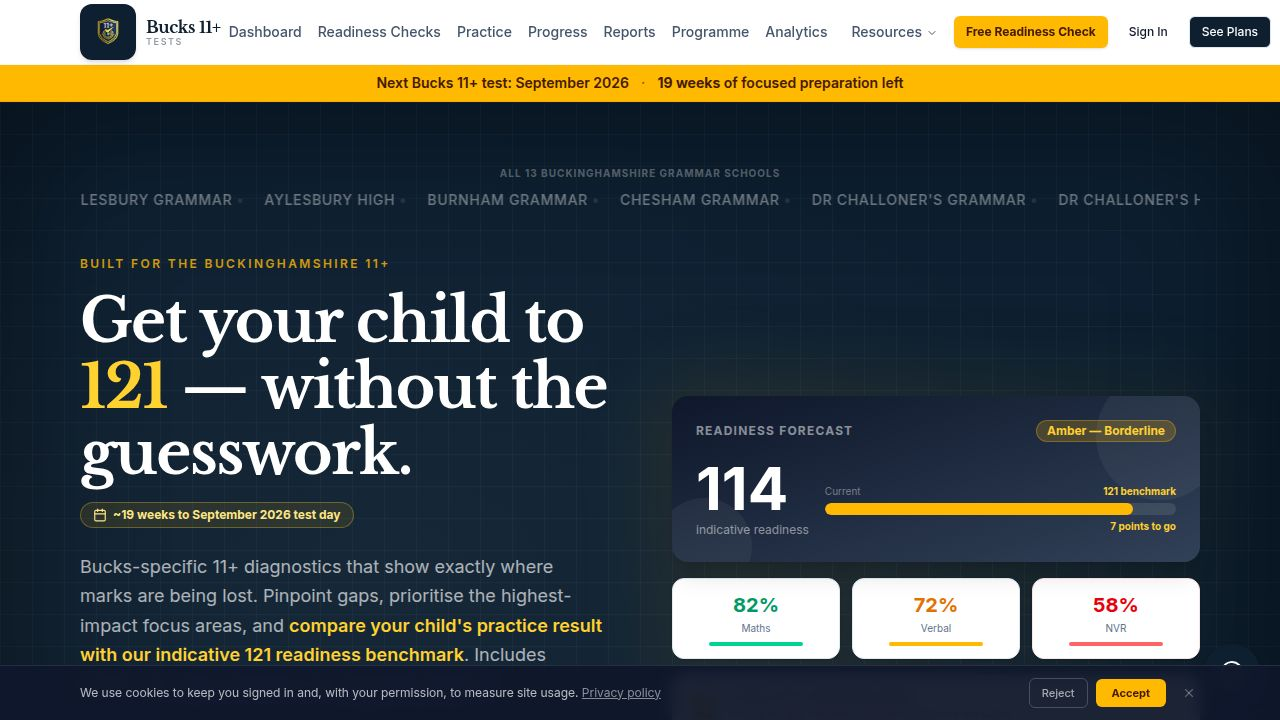
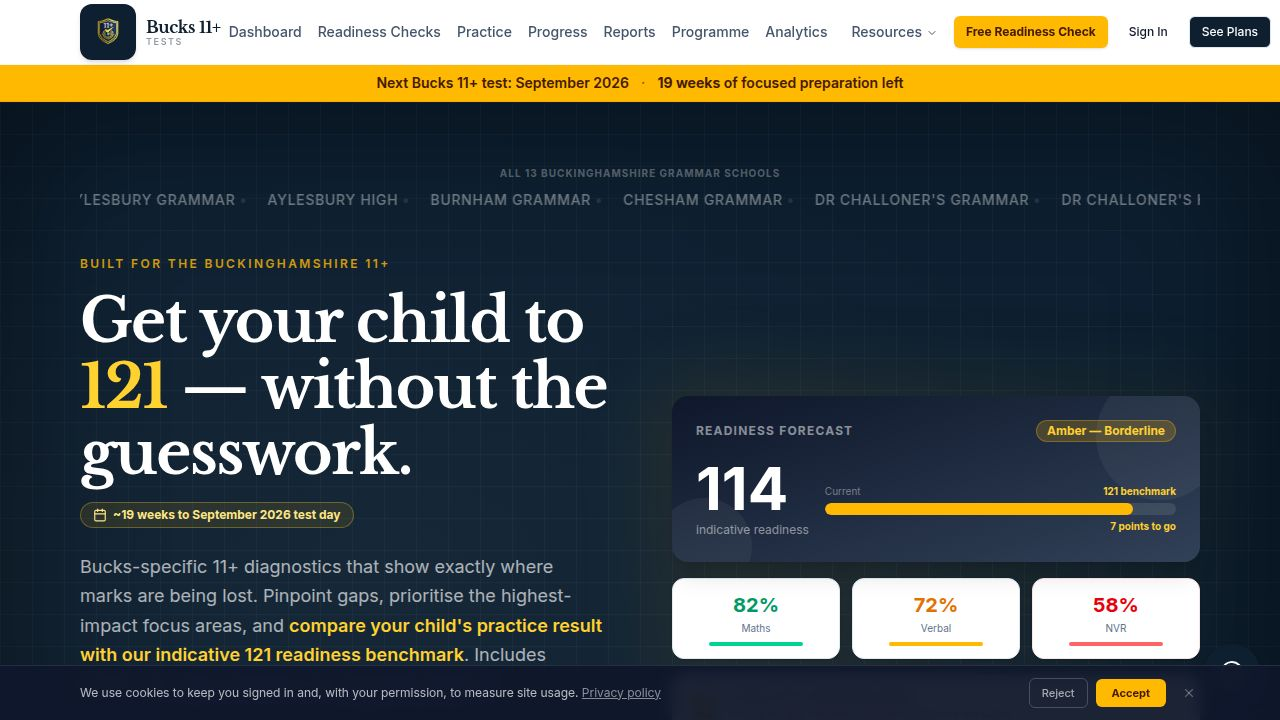
Add a preview of the free readiness check to the landing page
Introduce `FreeDiagnosticPreviewPanel` component and integrate it into the landing page, redesigning the diagnostic entry section to a two-column layout with the preview on the right.

Replit-Commit-Author: Agent
Replit-Commit-Session-Id: 90c3fe66-2ef5-4594-8845-019f938b8254
Replit-Commit-Checkpoint-Type: full_checkpoint
Replit-Commit-Event-Id: caa351bd-cbc0-4f8e-b4b7-3445084cc555
Replit-Commit-Screenshot-Url: https://storage.googleapis.com/screenshot-production-us-central1/b7437ecd-1abb-4e5d-b2c4-09e49d5b6ddc/90c3fe66-2ef5-4594-8845-019f938b8254/byGwE94
Replit-Helium-Checkpoint-Created: true

diff --git a/client/src/pages/Landing.tsx b/client/src/pages/Landing.tsx
@@ -401,6 +401,73 @@ function ProgrammePanel() {
   );
 }
 
+function FreeDiagnosticPreviewPanel() {
+  return (
+    <Link href="/free-diagnostic" className="block group cursor-pointer" data-testid="diagnostic-preview-panel">
+      <div className="rounded-2xl border border-amber-200/60 bg-white shadow-xl shadow-amber-100/40 overflow-hidden group-hover:shadow-amber-200/70 group-hover:border-amber-300/70 transition-all duration-200">
+        {/* Header */}
+        <div className="bg-primary px-4 py-3 flex items-center justify-between">
+          <div className="flex items-center gap-2">
+            <div className="w-6 h-6 rounded-lg bg-amber-400/20 border border-amber-400/30 flex items-center justify-center">
+              <span className="text-[9px] font-bold text-amber-300">11+</span>
+            </div>
+            <span className="text-[11px] font-semibold text-white/80 tracking-tight">Free Readiness Check</span>
+          </div>
+          <div className="flex items-center gap-3">
+            <span className="text-[10px] text-white/50">Q 1 of 12</span>
+            <span className="flex items-center gap-1 text-[11px] font-bold text-amber-300">
+              <Clock className="h-3 w-3" /> 07:45
+            </span>
+          </div>
+        </div>
+        {/* Progress bar */}
+        <div className="h-1 bg-slate-100">
+          <div className="h-1 bg-amber-400 w-[8%]" />
+        </div>
+        {/* Content */}
+        <div className="px-5 pt-4 pb-5">
+          <span className="inline-flex items-center gap-1.5 text-[10px] font-bold text-blue-700 bg-blue-50 border border-blue-100 px-2.5 py-1 rounded-full uppercase tracking-widest mb-4">
+            Verbal Reasoning
+          </span>
+          <p className="text-sm font-semibold text-primary mb-4 leading-snug">
+            Choose the word closest in meaning to <span className="text-amber-700 font-bold">ABUNDANT</span>
+          </p>
+          <div className="space-y-2">
+            {[
+              { letter: "A", word: "Scarce", selected: false },
+              { letter: "B", word: "Plentiful", selected: true },
+              { letter: "C", word: "Heavy", selected: false },
+              { letter: "D", word: "Ancient", selected: false },
+              { letter: "E", word: "Difficult", selected: false },
+            ].map((opt) => (
+              <div
+                key={opt.letter}
+                className={`flex items-center gap-3 px-3 py-2 rounded-xl border text-sm ${
+                  opt.selected
+                    ? "border-amber-400 bg-amber-50 text-amber-900 font-semibold"
+                    : "border-slate-200 bg-slate-50/50 text-slate-600"
+                }`}
+              >
+                <span className={`w-6 h-6 rounded-full flex items-center justify-center text-[11px] font-bold shrink-0 ${opt.selected ? "bg-amber-400 text-amber-950" : "bg-slate-200 text-slate-600"}`}>
+                  {opt.letter}
+                </span>
+                {opt.word}
+              </div>
+            ))}
+          </div>
+          <div className="mt-4 flex items-center justify-between">
+            <span className="text-[10px] text-slate-400">4 sections · instant results</span>
+            <div className="inline-flex items-center gap-1.5 bg-primary text-white text-[11px] font-bold px-4 py-2 rounded-xl group-hover:bg-primary/90 transition-all">
+              Next <ArrowRight className="h-3 w-3" />
+            </div>
+          </div>
+        </div>
+      </div>
+      <p className="text-[10px] text-slate-400 italic text-center mt-2">Click to start — 8 minutes, no account needed</p>
+    </Link>
+  );
+}
+
 /* ─── REMOVED: interactive question carousel ─── */
 // Removed in favour of platform showcase section
 type SampleQ = {
@@ -1003,6 +1070,7 @@ function ChildExperiencePanel() {
 
 export default function Landing() {
   const { user } = useAuth();
+  const [activeFeature, setActiveFeature] = useState(0);
 
   // Countdown to next Bucks 11+ test (Sept of relevant academic year)
   const today = new Date();
@@ -1138,120 +1206,88 @@ export default function Landing() {
             </p>
           </div>
 
-          <div className="space-y-20 md:space-y-28">
-            {/* Row 1: Readiness Diagnostics — copy left, panel right */}
-            <div className="grid lg:grid-cols-2 gap-10 lg:gap-16 items-center">
-              <div>
-                <span className="inline-flex items-center gap-1.5 text-[11px] font-bold text-amber-700 bg-amber-100 border border-amber-200 px-3 py-1 rounded-full uppercase tracking-widest mb-4">
-                  Free · Readiness Diagnostics
-                </span>
-                <h3 className="text-2xl md:text-3xl font-bold text-primary font-serif mb-3 leading-tight">
-                  Start with a real picture, not a guess
-                </h3>
-                <p className="text-slate-600 leading-relaxed mb-3">
-                  Take a 12-question timed check across all four sections — the same format as the real GL paper. We return an indicative readiness score against our 121 benchmark, plus your child's three weakest areas. No account needed, no payment required.
-                </p>
-                <p className="text-xs text-slate-400 font-medium">8 minutes · instant results · no account needed</p>
-              </div>
-              <div>
-                <ForecastPanel />
-                <p className="text-[10px] text-slate-400 italic text-center mt-3">Illustrative example — not official results</p>
-              </div>
+          {/* Tabbed feature navigator */}
+          <div className="lg:grid lg:grid-cols-3 lg:gap-10 space-y-6 lg:space-y-0">
+            {/* Left: tab list */}
+            <div className="lg:col-span-1 space-y-1">
+              {[
+                { dot: "bg-amber-400",   label: "Free · Readiness Diagnostics", title: "Start with a real picture, not a guess" },
+                { dot: "bg-violet-500",  label: "Subject Breakdown",             title: 'Not \u201cNVR needs work\u201d \u2014 exactly which skills' },
+                { dot: "bg-blue-500",    label: "Adaptive Practice",             title: "The right questions, at the right difficulty" },
+                { dot: "bg-red-500",     label: "Pace & Stamina Tracking",       title: "The real GL paper is timed. We track every second." },
+                { dot: "bg-emerald-500", label: "Guided Weekly Programme",       title: 'No more \u201cwhat should we practise tonight?\u201d' },
+                { dot: "bg-amber-600",   label: "Progress Over Time",            title: "See if preparation is working — week by week" },
+              ].map((tab, i) => (
+                <button
+                  key={i}
+                  onClick={() => setActiveFeature(i)}
+                  className={`w-full text-left px-4 py-3 rounded-xl border transition-all ${activeFeature === i ? "border-primary/20 bg-primary/5 shadow-sm" : "border-transparent hover:bg-slate-50"}`}
+                  data-testid={`showcase-tab-${i}`}
+                >
+                  <div className="flex items-center gap-2.5 mb-0.5">
+                    <div className={`w-2 h-2 rounded-full shrink-0 ${tab.dot}`} />
+                    <span className={`text-[10px] font-bold uppercase tracking-widest ${activeFeature === i ? "text-primary/70" : "text-slate-400"}`}>{tab.label}</span>
+                  </div>
+                  <p className={`text-sm font-semibold font-serif leading-snug pl-[18px] ${activeFeature === i ? "text-primary" : "text-slate-500"}`}>{tab.title}</p>
+                </button>
+              ))}
             </div>
 
-            {/* Row 2: Sub-skill Breakdown — panel left, copy right */}
-            <div className="grid lg:grid-cols-2 gap-10 lg:gap-16 items-center">
-              <div className="order-2 lg:order-1">
-                <SectionsPanel />
+            {/* Right: panel + copy for active tab */}
+            <div className="lg:col-span-2">
+              <div className="mb-6">
+                {activeFeature === 0 && <><ForecastPanel /><p className="text-[10px] text-slate-400 italic text-center mt-3">Illustrative example — not official results</p></>}
+                {activeFeature === 1 && <SectionsPanel />}
+                {activeFeature === 2 && <PracticeQuestionPanel />}
+                {activeFeature === 3 && <AnalyticsPanel />}
+                {activeFeature === 4 && <ProgrammePanel />}
+                {activeFeature === 5 && <ProgressPanel />}
               </div>
-              <div className="order-1 lg:order-2">
-                <span className="inline-flex items-center gap-1.5 text-[11px] font-bold text-violet-700 bg-violet-100 border border-violet-200 px-3 py-1 rounded-full uppercase tracking-widest mb-4">
-                  Subject Breakdown
-                </span>
-                <h3 className="text-2xl md:text-3xl font-bold text-primary font-serif mb-3 leading-tight">
-                  Not "NVR needs work" — exactly which NVR skills need work
-                </h3>
-                <p className="text-slate-600 leading-relaxed mb-3">
-                  Most platforms show you a subject score. We drill down to 32 sub-skills — so instead of "Verbal Reasoning 65%", you see "Vocab &amp; Synonyms 60%, Code Sequences 75%". Knowing which sub-skill is weak is what turns practice time into progress.
-                </p>
-                <p className="text-xs text-slate-400 font-medium">4 subjects · 32 sub-skills tracked · updated after every session</p>
-              </div>
-            </div>
-
-            {/* Row 3: Targeted Drills — copy left, panel right */}
-            <div className="grid lg:grid-cols-2 gap-10 lg:gap-16 items-center">
-              <div>
-                <span className="inline-flex items-center gap-1.5 text-[11px] font-bold text-blue-700 bg-blue-100 border border-blue-200 px-3 py-1 rounded-full uppercase tracking-widest mb-4">
-                  Adaptive Practice
-                </span>
-                <h3 className="text-2xl md:text-3xl font-bold text-primary font-serif mb-3 leading-tight">
-                  The right questions, at the right difficulty, every session
-                </h3>
-                <p className="text-slate-600 leading-relaxed mb-3">
-                  2,500+ GL-style questions across VR, NVR, Maths and Comprehension — each with a worked solution and instant feedback. Difficulty adapts as your child improves: they're never coasting on questions they've already mastered, and never stuck on a wall they can't get over.
-                </p>
-                <p className="text-xs text-slate-400 font-medium">2,500+ questions · 24 question types · worked solutions · adapts difficulty</p>
-              </div>
-              <div>
-                <PracticeQuestionPanel />
-              </div>
-            </div>
-
-            {/* Row 4: Pace & Stamina — panel left, copy right */}
-            <div className="grid lg:grid-cols-2 gap-10 lg:gap-16 items-center">
-              <div className="order-2 lg:order-1">
-                <AnalyticsPanel />
-              </div>
-              <div className="order-1 lg:order-2">
-                <span className="inline-flex items-center gap-1.5 text-[11px] font-bold text-red-700 bg-red-100 border border-red-200 px-3 py-1 rounded-full uppercase tracking-widest mb-4">
-                  Pace &amp; Stamina Tracking
-                </span>
-                <h3 className="text-2xl md:text-3xl font-bold text-primary font-serif mb-3 leading-tight">
-                  The real GL paper is timed. We track every second.
-                </h3>
-                <p className="text-slate-600 leading-relaxed mb-3">
-                  Most children don't realise their accuracy drops in the second half of a timed test. We measure how long each answer takes and whether stamina holds under pressure. That's an insight no static practice paper can give you — and it's often the difference between borderline and clear.
-                </p>
-                <p className="text-xs text-slate-400 font-medium">Per-question timing · accuracy vs pace · stamina analysis</p>
-              </div>
-            </div>
-
-            {/* Row 5: Weekly Programme — copy left, panel right */}
-            <div className="grid lg:grid-cols-2 gap-10 lg:gap-16 items-center">
-              <div>
-                <span className="inline-flex items-center gap-1.5 text-[11px] font-bold text-emerald-700 bg-emerald-100 border border-emerald-200 px-3 py-1 rounded-full uppercase tracking-widest mb-4">
-                  Guided Weekly Programme
-                </span>
-                <h3 className="text-2xl md:text-3xl font-bold text-primary font-serif mb-3 leading-tight">
-                  No more "what should we practise tonight?"
-                </h3>
-                <p className="text-slate-600 leading-relaxed mb-3">
-                  Once we know the gaps, we generate a weekly plan — five short, prioritised drills, 10–15 minutes each, targeting the sub-skills that will move the score the most. Priority-ranked so the most important thing is always first.
-                </p>
-                <p className="text-xs text-slate-400 font-medium">5 drills per week · ~60 mins total · priority-ordered by impact</p>
-              </div>
-              <div>
-                <ProgrammePanel />
-              </div>
-            </div>
-
-            {/* Row 6: Progress Over Time — panel left, copy right */}
-            <div className="grid lg:grid-cols-2 gap-10 lg:gap-16 items-center">
-              <div className="order-2 lg:order-1">
-                <ProgressPanel />
-              </div>
-              <div className="order-1 lg:order-2">
-                <span className="inline-flex items-center gap-1.5 text-[11px] font-bold text-amber-700 bg-amber-100 border border-amber-200 px-3 py-1 rounded-full uppercase tracking-widest mb-4">
-                  Progress Over Time
-                </span>
-                <h3 className="text-2xl md:text-3xl font-bold text-primary font-serif mb-3 leading-tight">
-                  See if preparation is working — week by week
-                </h3>
-                <p className="text-slate-600 leading-relaxed mb-3">
-                  Every readiness check adds a point to your child's trend line. You'll see the indicative readiness score moving — or not — against the 121 benchmark. If it's not moving after a month, that's important information too.
-                </p>
-                <p className="text-xs text-slate-400 font-medium">Test-by-test trend · vs 121 readiness benchmark · no guesswork</p>
-              </div>
+              {[
+                {
+                  badge: "Free · Readiness Diagnostics", badgeColor: "text-amber-700 bg-amber-100 border-amber-200",
+                  title: "Start with a real picture, not a guess",
+                  body: "Take a 12-question timed check across all four sections — the same format as the real GL paper. We return an indicative readiness score against our 121 benchmark, plus your child's three weakest areas. No account needed, no payment required.",
+                  meta: "8 minutes · instant results · no account needed",
+                },
+                {
+                  badge: "Subject Breakdown", badgeColor: "text-violet-700 bg-violet-100 border-violet-200",
+                  title: 'Not \u201cNVR needs work\u201d \u2014 exactly which NVR skills need work',
+                  body: 'Most platforms show you a subject score. We drill down to 32 sub-skills \u2014 so instead of \u201cVerbal Reasoning 65%\u201d, you see \u201cVocab & Synonyms 60%, Code Sequences 75%\u201d. Knowing which sub-skill is weak is what turns practice time into progress.',
+                  meta: "4 subjects · 32 sub-skills tracked · updated after every session",
+                },
+                {
+                  badge: "Adaptive Practice", badgeColor: "text-blue-700 bg-blue-100 border-blue-200",
+                  title: "The right questions, at the right difficulty, every session",
+                  body: "2,500+ GL-style questions across VR, NVR, Maths and Comprehension — each with a worked solution and instant feedback. Difficulty adapts as your child improves: they're never coasting on questions they've already mastered, and never stuck on a wall they can't get over.",
+                  meta: "2,500+ questions · 24 question types · worked solutions · adapts difficulty",
+                },
+                {
+                  badge: "Pace & Stamina Tracking", badgeColor: "text-red-700 bg-red-100 border-red-200",
+                  title: "The real GL paper is timed. We track every second.",
+                  body: "Most children don't realise their accuracy drops in the second half of a timed test. We measure how long each answer takes and whether stamina holds under pressure. That's an insight no static practice paper can give you — and it's often the difference between borderline and clear.",
+                  meta: "Per-question timing · accuracy vs pace · stamina analysis",
+                },
+                {
+                  badge: "Guided Weekly Programme", badgeColor: "text-emerald-700 bg-emerald-100 border-emerald-200",
+                  title: 'No more \u201cwhat should we practise tonight?\u201d',
+                  body: "Once we know the gaps, we generate a weekly plan — five short, prioritised drills, 10–15 minutes each, targeting the sub-skills that will move the score the most. Priority-ranked so the most important thing is always first.",
+                  meta: "5 drills per week · ~60 mins total · priority-ordered by impact",
+                },
+                {
+                  badge: "Progress Over Time", badgeColor: "text-amber-700 bg-amber-100 border-amber-200",
+                  title: "See if preparation is working — week by week",
+                  body: "Every readiness check adds a point to your child's trend line. You'll see the indicative readiness score moving — or not — against the 121 benchmark. If it's not moving after a month, that's important information too.",
+                  meta: "Test-by-test trend · vs 121 readiness benchmark · no guesswork",
+                },
+              ].map((f, i) => activeFeature === i && (
+                <div key={i}>
+                  <span className={`inline-flex items-center gap-1.5 text-[11px] font-bold border px-3 py-1 rounded-full uppercase tracking-widest mb-4 ${f.badgeColor}`}>{f.badge}</span>
+                  <h3 className="text-2xl md:text-3xl font-bold text-primary font-serif mb-3 leading-tight">{f.title}</h3>
+                  <p className="text-slate-600 leading-relaxed mb-3">{f.body}</p>
+                  <p className="text-xs text-slate-400 font-medium">{f.meta}</p>
+                </div>
+              ))}
             </div>
           </div>
 
@@ -1273,33 +1309,42 @@ export default function Landing() {
         style={{ background: "linear-gradient(180deg, #fffbeb 0%, #ffffff 70%)" }}
         data-testid="section-diagnostic-entry"
       >
-        <div className="container mx-auto max-w-3xl px-4 text-center">
-          <span className="inline-block text-xs font-bold text-amber-700/60 uppercase tracking-widest mb-4">Free · No account needed</span>
-          <h2 className="text-3xl md:text-4xl font-bold text-primary font-serif mb-4 leading-tight">
-            Find out where your child really stands — in 8 minutes
-          </h2>
-          <p className="text-slate-600 leading-relaxed mb-8 max-w-xl mx-auto">
-            12 timed questions across all four sections. The same format as the real GL paper. Instant section-by-section breakdown and indicative readiness score against our 121 benchmark.
-          </p>
-          <div className="flex flex-col sm:flex-row gap-3 justify-center mb-8">
-            {[
-              "Timed like the real GL paper",
-              "Instant section breakdown",
-              "Indicative readiness score",
-            ].map((pt, i) => (
-              <div key={i} className="flex items-center gap-2 text-sm text-slate-700 font-medium">
-                <CheckCircle2 className="h-4 w-4 text-emerald-500 shrink-0" />
-                {pt}
+        <div className="container mx-auto max-w-5xl px-4">
+          <div className="grid lg:grid-cols-2 gap-10 lg:gap-16 items-center">
+            {/* Left: copy */}
+            <div className="text-center lg:text-left">
+              <span className="inline-block text-xs font-bold text-amber-700/60 uppercase tracking-widest mb-4">Free · No account needed</span>
+              <h2 className="text-3xl md:text-4xl font-bold text-primary font-serif mb-4 leading-tight">
+                Find out where your child really stands — in 8 minutes
+              </h2>
+              <p className="text-slate-600 leading-relaxed mb-6">
+                12 timed questions across all four sections. The same format as the real GL paper. Instant section-by-section breakdown and indicative readiness score against our 121 benchmark.
+              </p>
+              <div className="flex flex-col gap-2.5 mb-7">
+                {[
+                  "Timed like the real GL paper",
+                  "Instant section breakdown",
+                  "Indicative readiness score",
+                ].map((pt, i) => (
+                  <div key={i} className="flex items-center gap-2 text-sm text-slate-700 font-medium justify-center lg:justify-start">
+                    <CheckCircle2 className="h-4 w-4 text-emerald-500 shrink-0" />
+                    {pt}
+                  </div>
+                ))}
               </div>
-            ))}
+              <Button size="lg" className="h-12 px-10 text-base bg-amber-400 text-amber-950 hover:bg-amber-300 font-bold border-none shadow-lg shadow-amber-200/60 mb-4" asChild data-testid="button-diagnostic-entry-cta">
+                <Link href="/free-diagnostic">
+                  Take the Free Readiness Check <ArrowRight className="ml-2 h-5 w-5" />
+                </Link>
+              </Button>
+              <p className="text-xs text-slate-400">12 questions · 8 minutes · no card required · instant results</p>
+              <p className="text-[11px] text-slate-400/70 mt-1.5 italic">Independent practice indicator — not an official test score.</p>
+            </div>
+            {/* Right: diagnostic question preview */}
+            <div>
+              <FreeDiagnosticPreviewPanel />
+            </div>
           </div>
-          <Button size="lg" className="h-12 px-10 text-base bg-amber-400 text-amber-950 hover:bg-amber-300 font-bold border-none shadow-lg shadow-amber-200/60 mb-4" asChild data-testid="button-diagnostic-entry-cta">
-            <Link href="/free-diagnostic">
-              Take the Free Readiness Check <ArrowRight className="ml-2 h-5 w-5" />
-            </Link>
-          </Button>
-          <p className="text-xs text-slate-400">12 questions · 8 minutes · no card required · instant results</p>
-          <p className="text-[11px] text-slate-400/70 mt-2 italic">Independent practice indicator — not an official test score.</p>
         </div>
       </section>
 